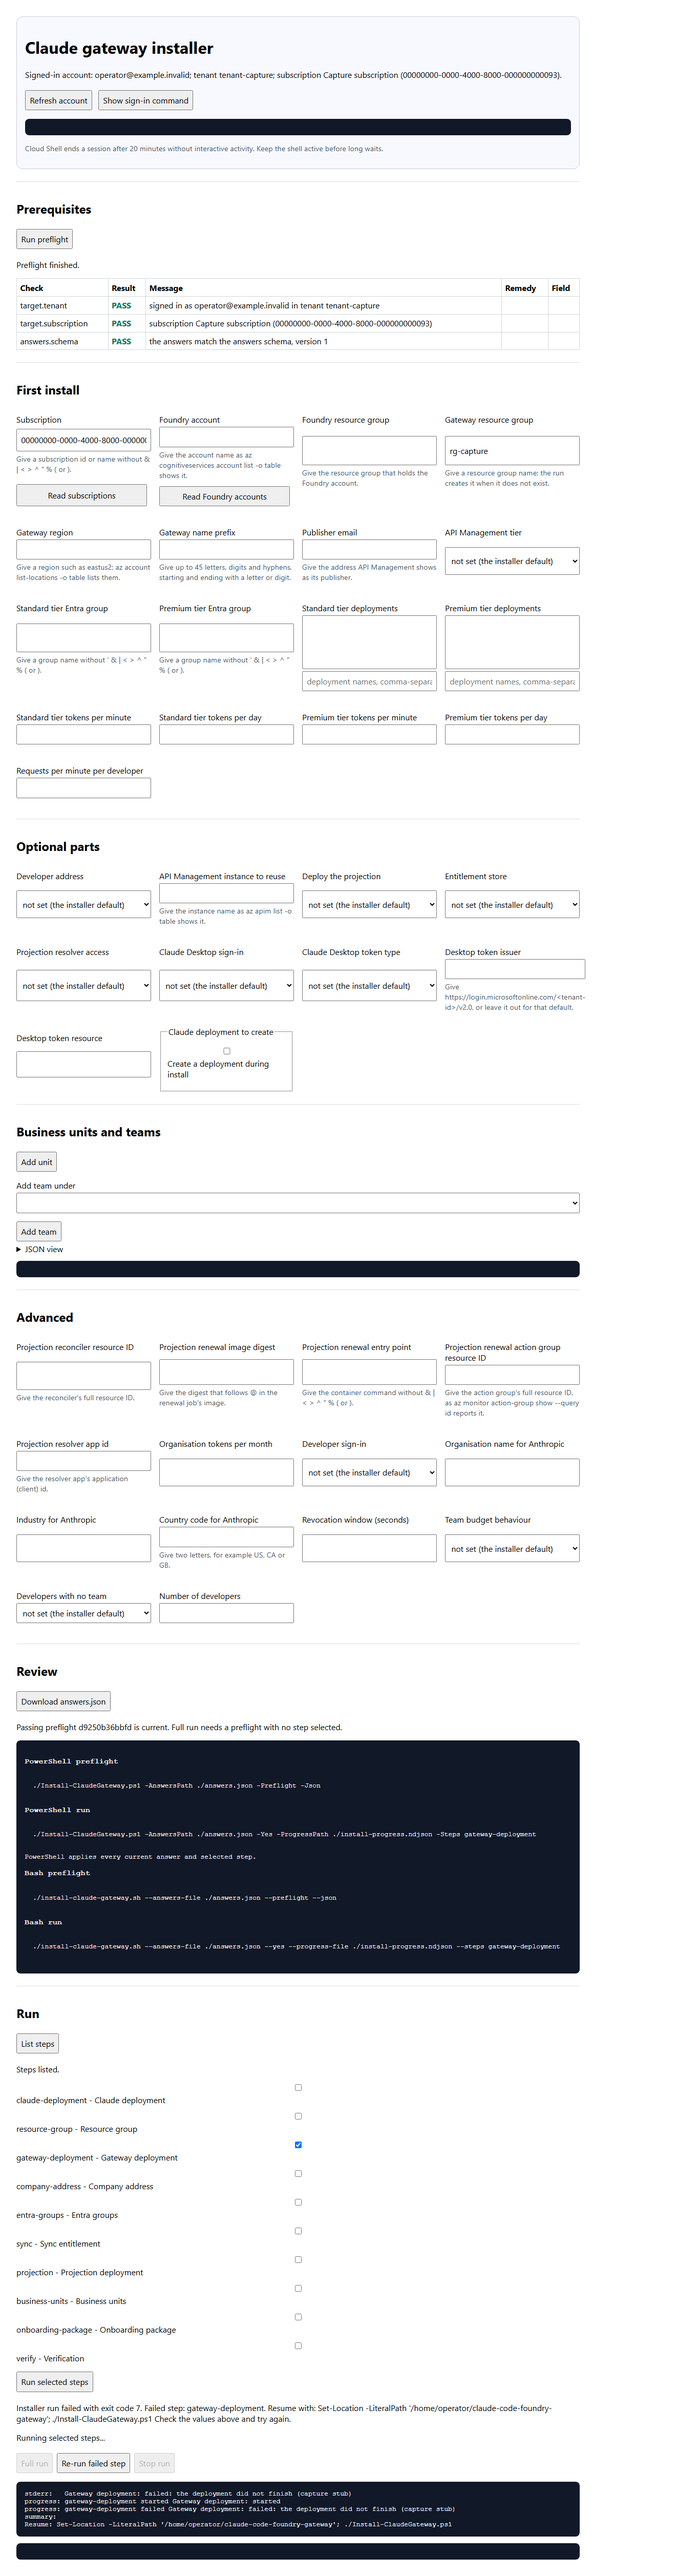
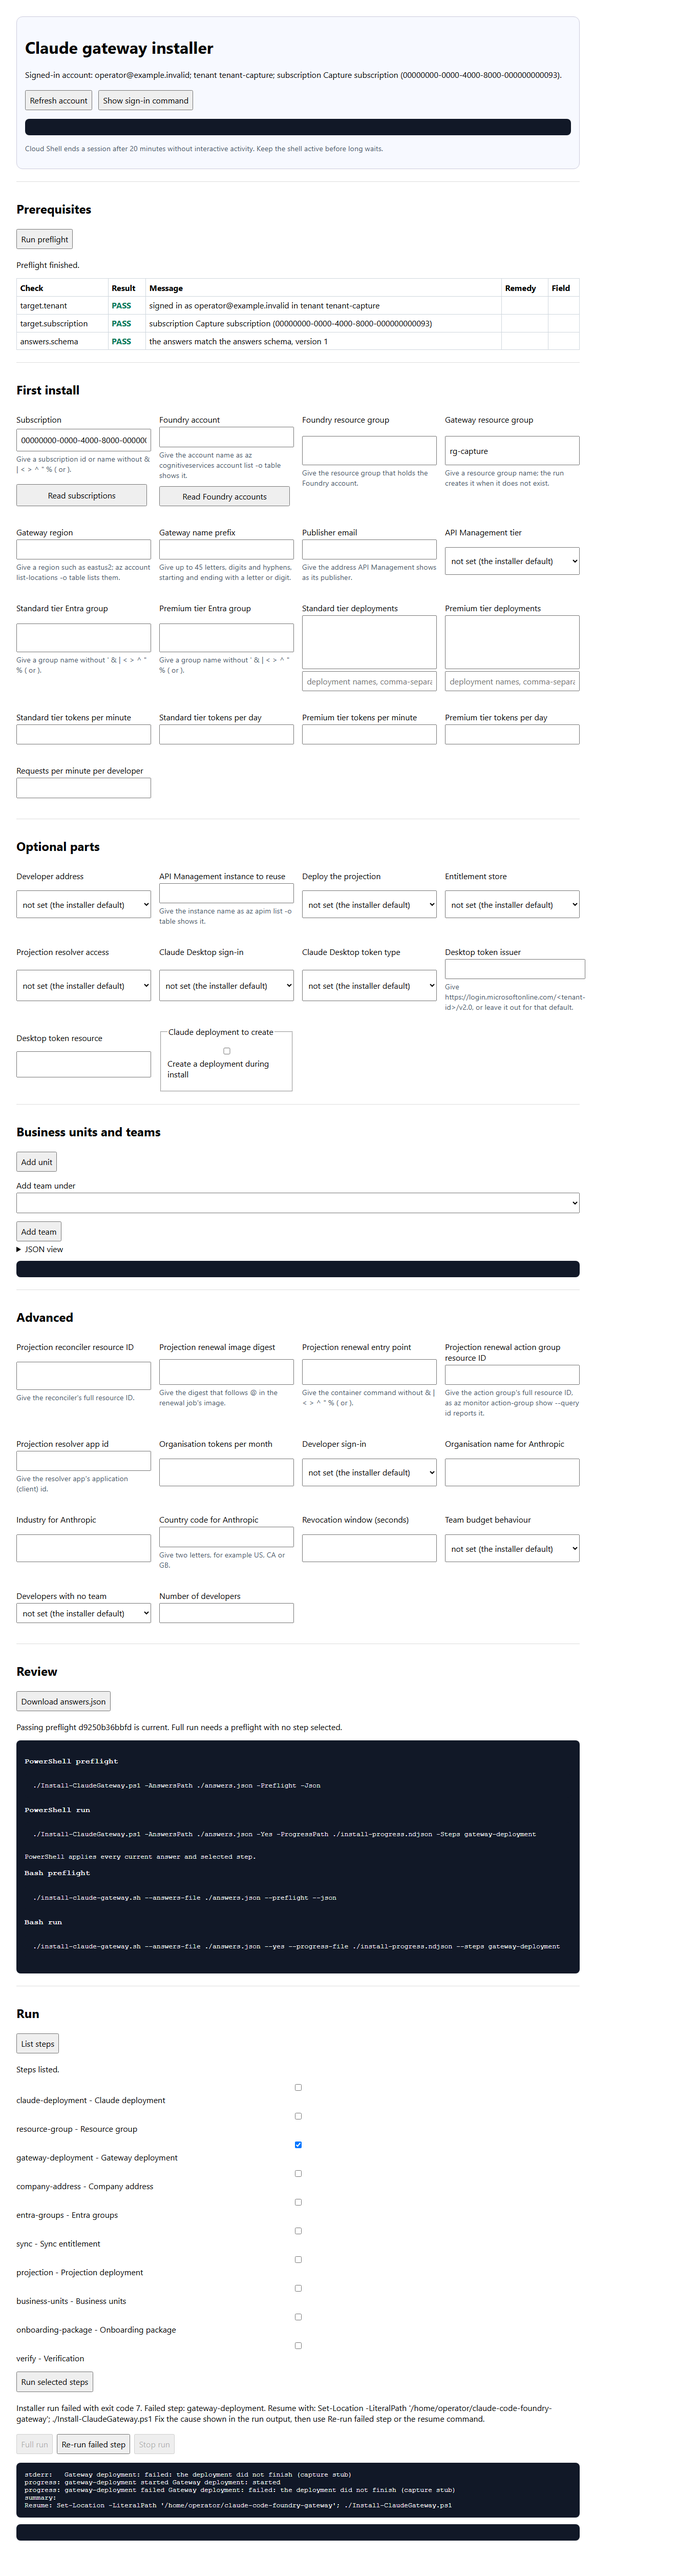
fix(p93): give failed runs recovery guidance
R2-4 replaces the generic form-remedy on run summary failures with run-output and rerun guidance, and refreshes the Installer UI screenshots after the run-alert cleanup.

Copilot-Session: 82d776f3-e908-44ed-80ff-1eb8b6c2fb34

diff --git a/tools/installer-ui/installer-ui-actions.js b/tools/installer-ui/installer-ui-actions.js
@@ -35,6 +35,7 @@
       pieces.push(formatError(data, error));
       if (data.reason === "preflight-required") pieces.push("Run the preflight again, then retry this action.");
       else if (data.reason === "azure-busy") pieces.push("Wait for it to finish, then try again.");
+      else if (data.runSummary) pieces.push("Fix the cause shown in the run output, then use Re-run failed step or the resume command.");
       else if (data.remedy) pieces.push(data.remedy);
       else pieces.push("Check the values above and try again.");
       return pieces.join(" ");

diff --git a/docs/status/P93.md b/docs/status/P93.md
@@ -2669,3 +2669,17 @@ text` (`tests/installer-ui-g7b.test.mjs:111`). RED quote: `The input was expecte
 regular expression /Running selected steps/. Input: 'Running selected steps...'`. Mutant: remove
 `clearChildren(status)` from the action catch block; result: the R2-3 test fails with the same busy
 status text.
+
+### Group 7b lead finding R2-4, 2026-10-05
+
+Run-summary failures now end with a recovery sentence that points to the run output, Re-run failed
+step and the resume command instead of the generic form-validation advice
+(`tools/installer-ui/installer-ui-actions.js:27-40`; `tools/installer-ui/installer-ui-run.js:63-66`).
+Test: `R2-4 run failure alert gives run-output recovery instead of generic form advice`
+(`tests/installer-ui-g7b.test.mjs:127`). RED quote: `The input did not match the regular expression
+/Fix the cause shown in the run output.../`, with input ending `Check the values above and try again.`
+Mutant: remove the `data.runSummary` branch from `errorText`; result: the R2-4 test fails with the
+generic remedy. Screenshots were recaptured and inspected after the R2-3/R2-4 fixes: overview shows
+the full form, preflight shows a passing fingerprint, and run shows the failed-step alert with the
+new recovery sentence and no stale busy status (`docs/guide/installer-ui-overview.png`;
+`docs/guide/installer-ui-preflight.png`; `docs/guide/installer-ui-run.png`).
